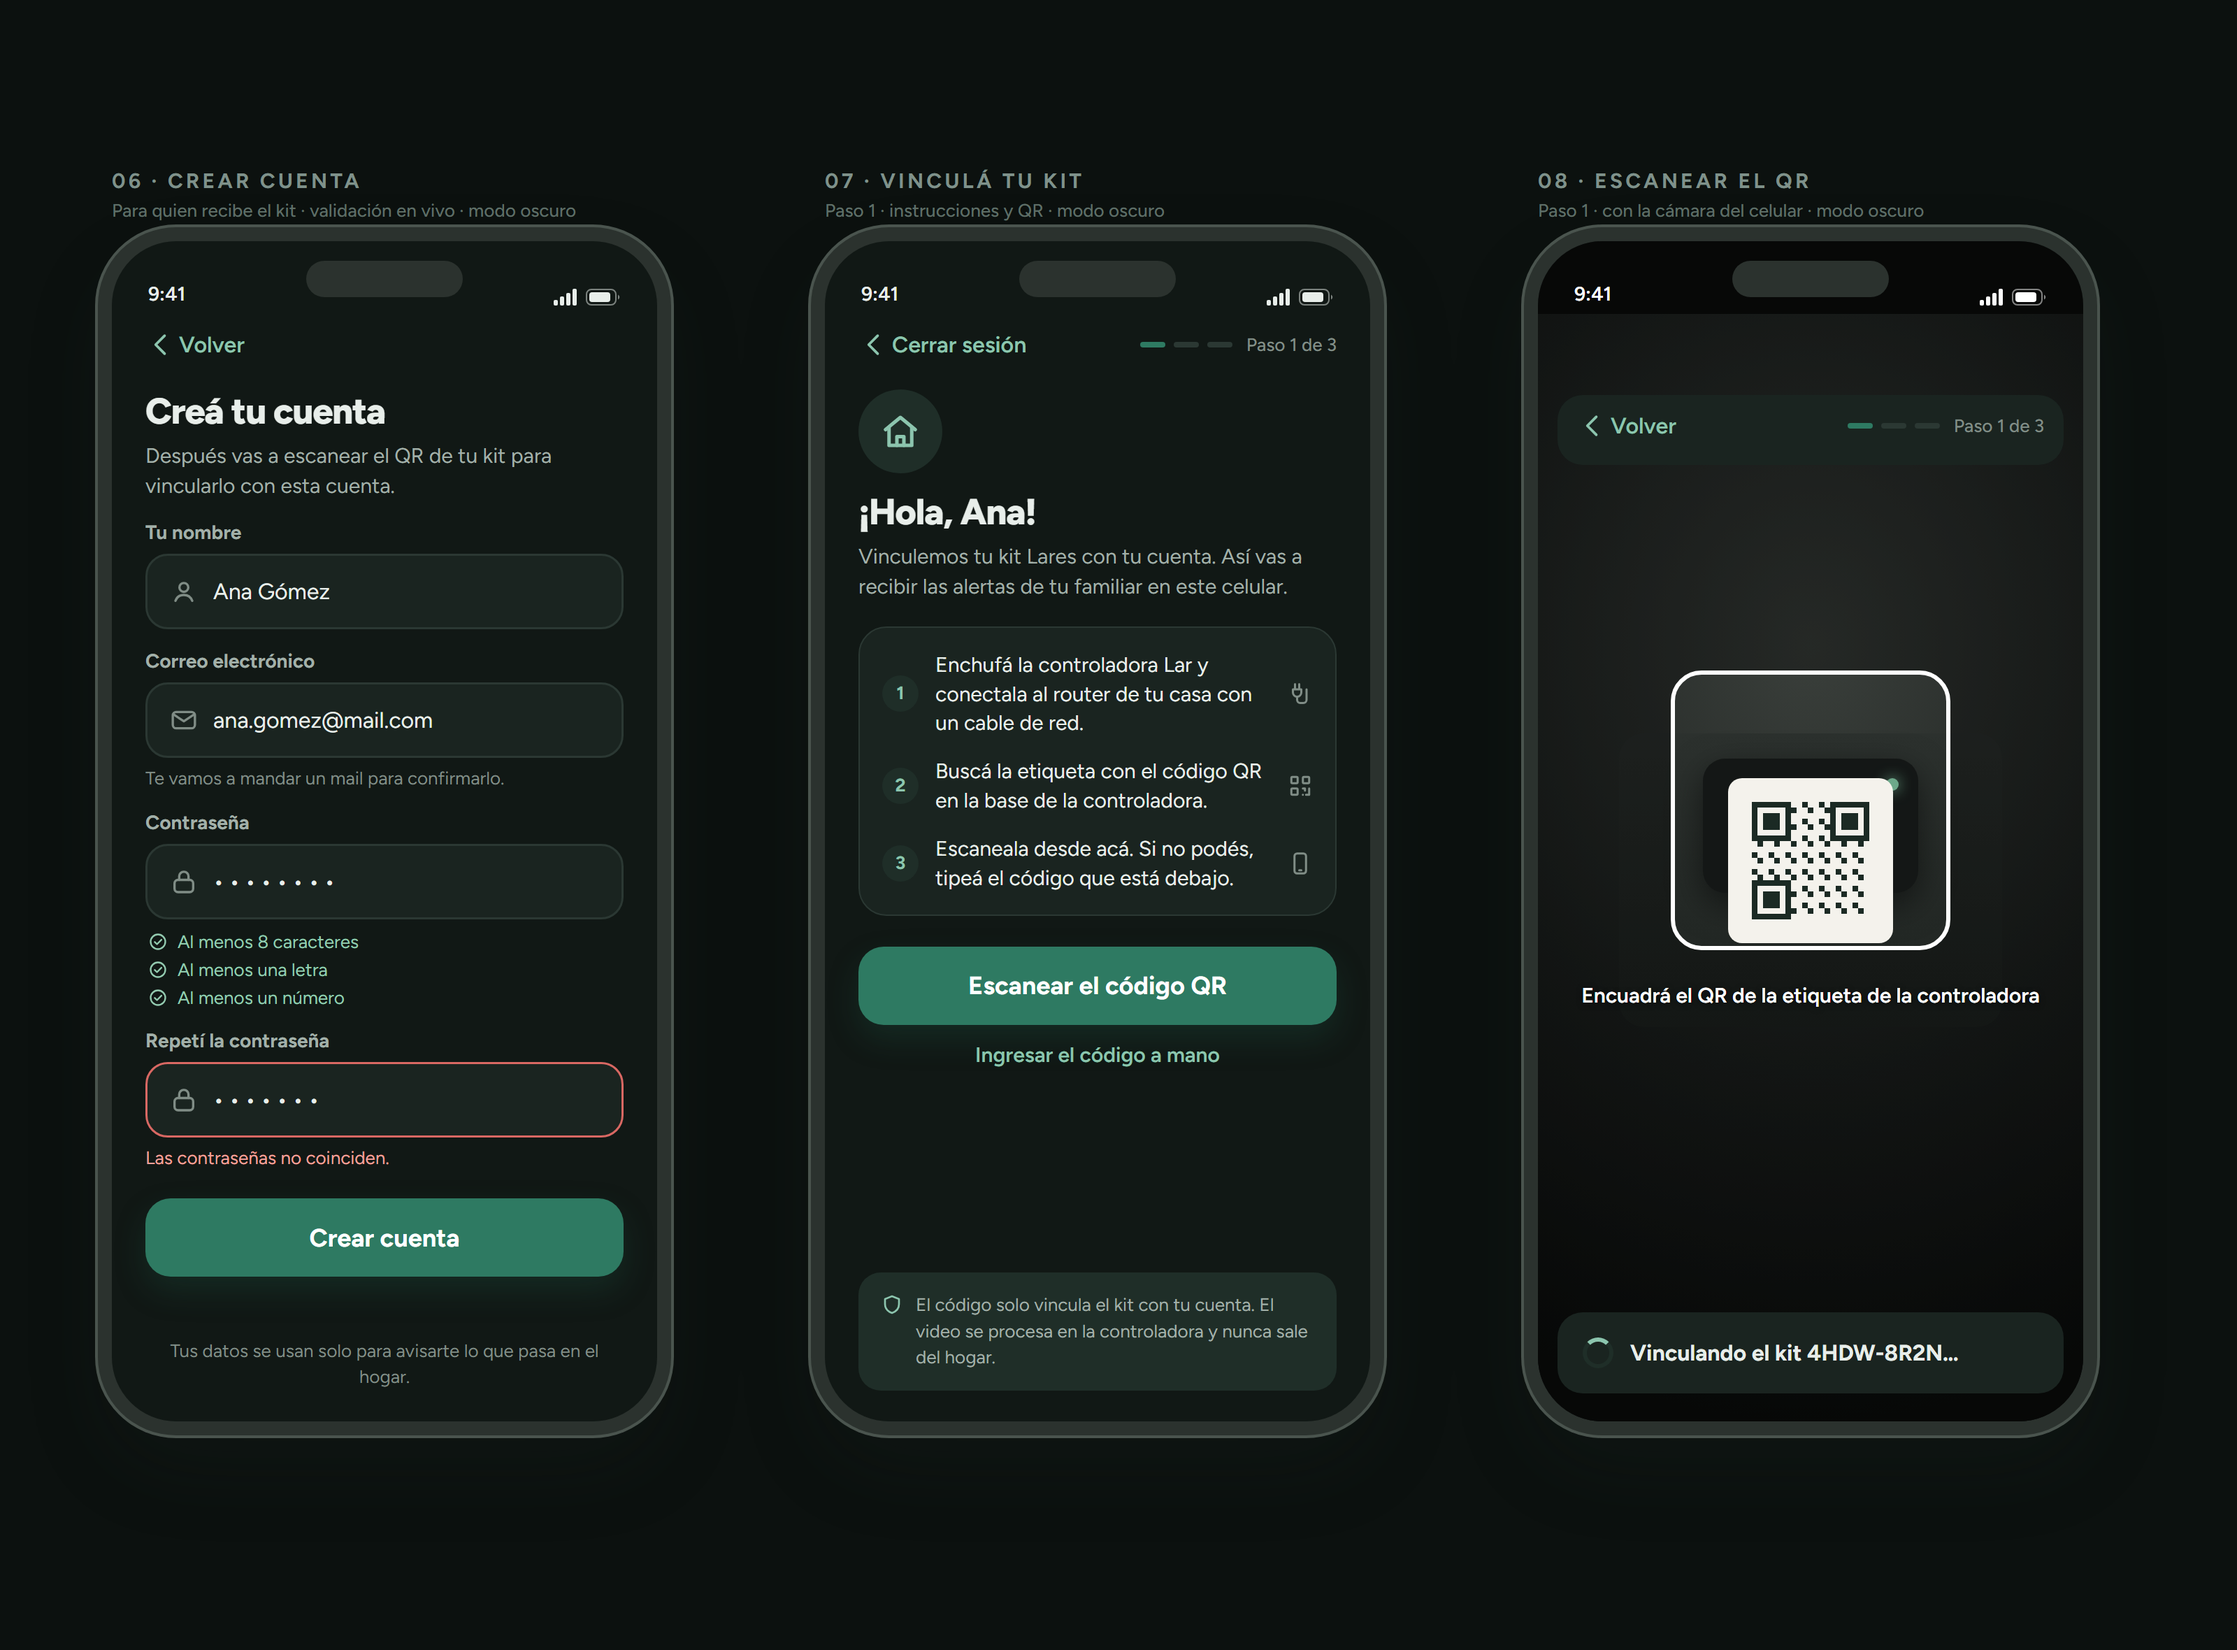
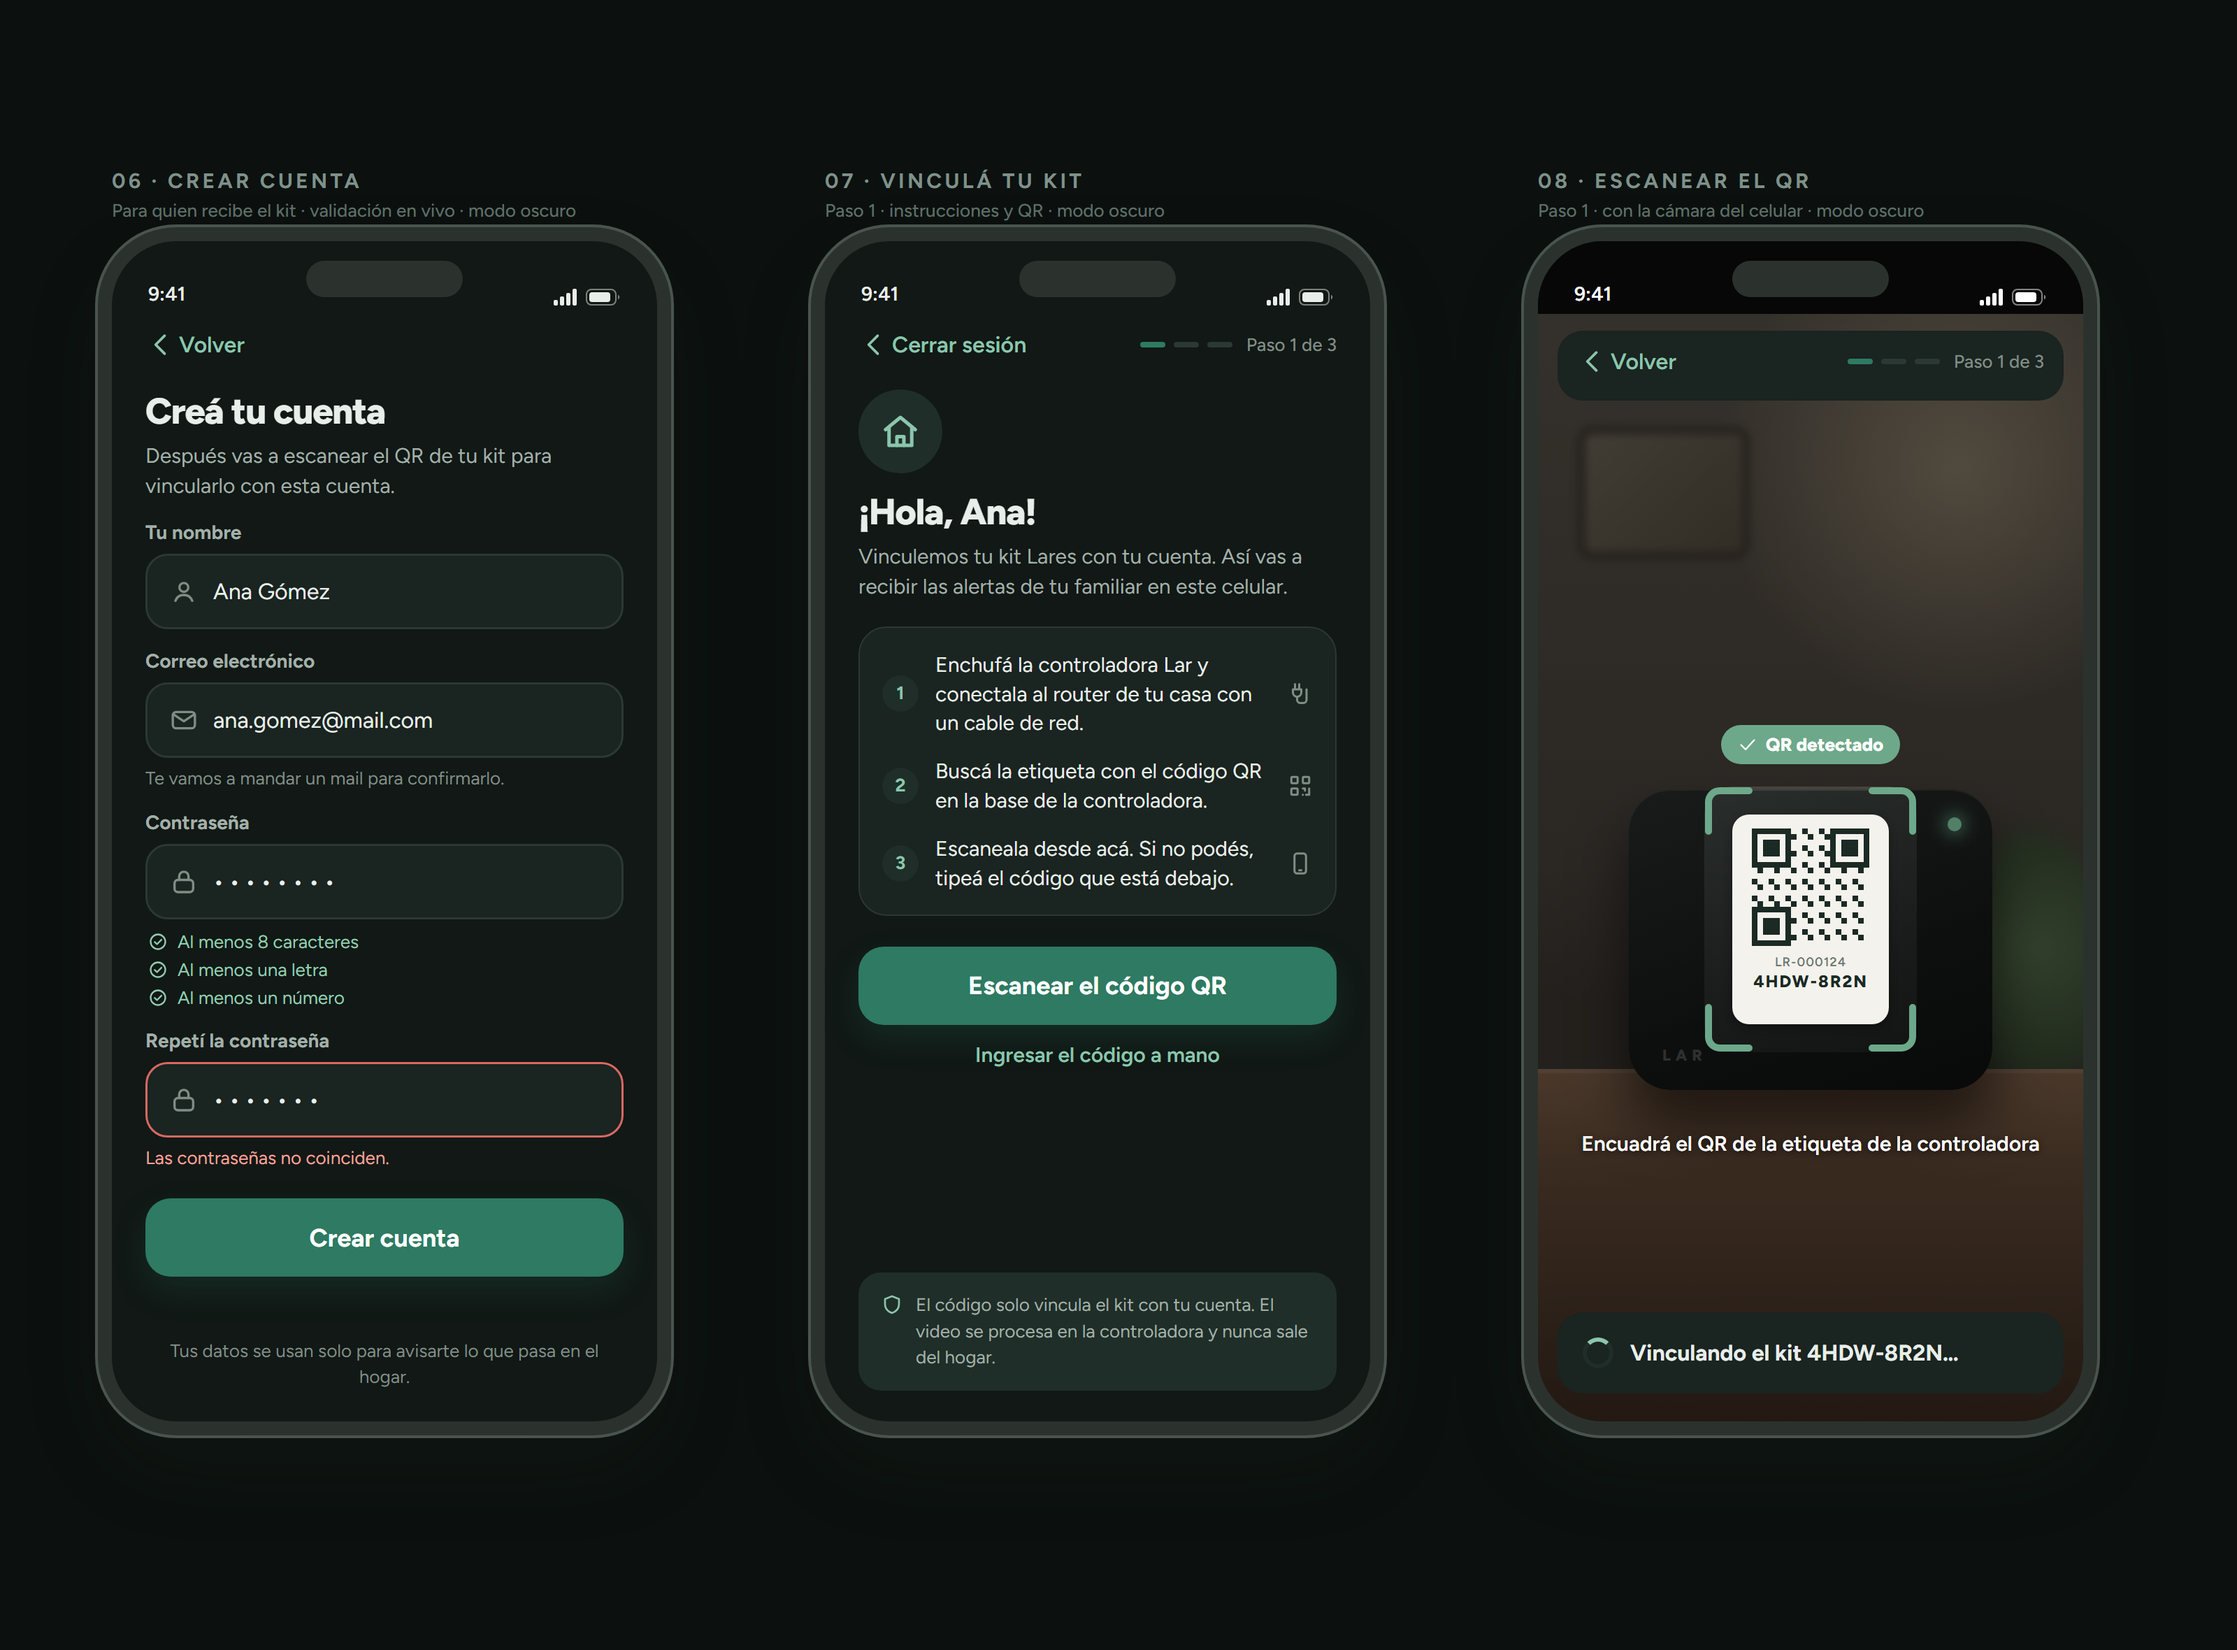
Mejora el mockup 08 (escanear el QR)
La pantalla de escaneo ahora muestra una escena reconocible: la
controladora Lar sobre un mueble, con la etiqueta del QR, el número de
serie y el código; el recuadro del escáner con esquinas verdes y el aviso
"QR detectado". Regeneradas las imágenes claras y oscuras.

Changed region(s): [[0.6875, 0.1856, 0.9375, 0.8661]]

diff --git a/docs/mockups/lares-mockup.css b/docs/mockups/lares-mockup.css
@@ -141,15 +141,26 @@ h1{font-size:26px;font-weight:800;letter-spacing:-.02em}
 /* Escáner: se dibuja sobre la imagen de la cámara, igual en los dos modos */
 .phone.camara{background:#0b0d0c}
 .phone.camara .sb{color:#fff;position:relative;z-index:2}
-.cam{position:absolute;inset:0;background:radial-gradient(120% 70% at 50% 30%,#3a3f3b 0%,#1d211f 55%,#0b0d0c 100%)}
-.cam .mueble{position:absolute;left:58px;right:58px;top:300px;height:210px;border-radius:18px;background:linear-gradient(#2c312e,#1f2421)}
-.cam .lar{position:absolute;left:118px;top:318px;width:154px;height:96px;border-radius:16px;background:#141716;box-shadow:0 8px 24px rgba(0,0,0,.5)}
-.cam .lar i{position:absolute;right:14px;top:14px;width:9px;height:9px;border-radius:5px;background:#6DA88A;box-shadow:0 0 10px #6DA88A}
-.cam .etq{position:absolute;left:136px;top:332px;width:118px;height:118px;border-radius:10px;background:#F4F2EC;display:grid;place-items:center}
-.marco{position:absolute;left:95px;top:255px;width:200px;height:200px;border-radius:22px;border:3px solid #fff;box-shadow:0 0 0 2000px rgba(0,0,0,.35)}
-.indic{position:absolute;left:30px;right:30px;top:478px;text-align:center;color:#fff;font-size:15px;font-weight:600;text-shadow:0 1px 4px rgba(0,0,0,.6)}
+/* La "foto": pared y mueble de madera desenfocados, la controladora Lar con su etiqueta */
+.cam{position:absolute;inset:0;overflow:hidden;background:linear-gradient(180deg,#5b554c 0%,#4a443d 50%,#3e3832 62%)}
+.cam .luz{position:absolute;right:-90px;top:-70px;width:360px;height:360px;border-radius:50%;background:radial-gradient(circle,rgba(255,226,180,.32),rgba(255,226,180,0) 68%)}
+.cam .cuadro{position:absolute;left:34px;top:86px;width:112px;height:84px;border-radius:5px;background:linear-gradient(135deg,#7a7060,#55503f);box-shadow:0 0 0 6px #3b362f;filter:blur(3px);opacity:.75}
+.cam .planta{position:absolute;right:-24px;top:370px;width:120px;height:210px;border-radius:50%;background:radial-gradient(circle at 50% 40%,#5d7a52,#3a4f34 60%,rgba(58,79,52,0) 72%);filter:blur(7px);opacity:.85}
+.cam .mesa{position:absolute;left:-20px;right:-20px;top:540px;bottom:0;background:linear-gradient(180deg,#80614a 0%,#634a37 30%,#3c2c21 100%);box-shadow:inset 0 3px 0 rgba(255,255,255,.09)}
+.cam .lar{position:absolute;left:65px;top:340px;width:260px;height:215px;border-radius:30px;background:linear-gradient(160deg,#2c302e 0%,#181b1a 60%,#0f1110 100%);box-shadow:0 26px 40px rgba(0,0,0,.55),inset 0 1px 0 rgba(255,255,255,.09)}
+.cam .led{position:absolute;right:22px;top:20px;width:10px;height:10px;border-radius:5px;background:#8EDCB2;box-shadow:0 0 12px 3px rgba(109,168,138,.85)}
+.cam .marca{position:absolute;left:24px;bottom:18px;font-size:11px;font-weight:800;letter-spacing:.32em;color:rgba(255,255,255,.26)}
+.cam .etq{position:absolute;left:74px;top:18px;width:112px;height:150px;border-radius:12px;background:#F4F2EC;display:flex;flex-direction:column;align-items:center;padding-top:10px;color:#1B2A24;box-shadow:0 2px 6px rgba(0,0,0,.35)}
+.cam .etq small{font-size:9px;font-weight:600;letter-spacing:.06em;color:#6B7770;margin-top:6px}
+.cam .etq b{font-size:12px;font-weight:800;letter-spacing:.08em;margin-top:1px}
+/* Escáner encima de la foto: oscurece todo menos el recuadro, esquinas verdes = QR detectado */
+.dim{position:absolute;left:119px;top:338px;width:152px;height:190px;border-radius:20px;box-shadow:0 0 0 2000px rgba(0,0,0,.42)}
+.esquinas{position:absolute;left:119px;top:338px;color:#6DA88A}
+.detectado{position:absolute;left:0;right:0;top:294px;display:flex;justify-content:center}
+.detectado span{display:inline-flex;align-items:center;gap:6px;background:#6DA88A;color:#fff;font-size:13px;font-weight:800;padding:6px 12px;border-radius:14px}
+.indic{position:absolute;left:30px;right:30px;top:584px;text-align:center;color:#fff;font-size:15px;font-weight:600;text-shadow:0 1px 4px rgba(0,0,0,.6)}
 .flot{position:absolute;left:14px;right:14px;background:var(--surf);border-radius:18px}
-.flot.arriba{top:58px;padding:0 14px}
+.flot.arriba{top:12px;padding:0 14px}
 .flot.abajo{bottom:20px;padding:18px;display:flex;align-items:center;gap:12px;font-size:16px;font-weight:700}
 .spin{width:22px;height:22px;border-radius:11px;border:3px solid var(--gr-s);border-top-color:var(--ac)}
 .filas{background:var(--surf);border:1px solid var(--line);border-radius:20px;padding:0 16px}

diff --git a/docs/mockups/pantallas.js b/docs/mockups/pantallas.js
@@ -180,8 +180,13 @@ ${campo('Repetí la contraseña', I.candado, '<span style="letter-spacing:.22em"
     titulo: '08 · Escanear el QR',
     sub: 'Paso 1 · con la cámara del celular',
     camara: true, // pantalla completa de cámara: barra de estado clara sobre fondo negro
-    html: () => `<div class="cam"><div class="mueble"></div><div class="lar"><i></i></div><div class="etq">${QR}</div></div>
-<div class="marco"></div><div class="indic">Encuadrá el QR de la etiqueta de la controladora</div>
+    html: () => `<div class="cam"><div class="luz"></div><div class="cuadro"></div><div class="planta"></div><div class="mesa"></div>
+<div class="lar"><div class="led"></div><div class="etq">${QR}<small>LR-000124</small><b>4HDW-8R2N</b></div><span class="marca">LAR</span></div></div>
+<div class="dim"></div>
+<svg class="esquinas" width="152" height="190" viewBox="0 0 152 190" fill="none" stroke="currentColor" stroke-width="5" stroke-linecap="round">
+<path d="M3 32V11a8 8 0 0 1 8-8h21M120 3h21a8 8 0 0 1 8 8v21M3 158v21a8 8 0 0 0 8 8h21M120 187h21a8 8 0 0 0 8-8v-21"/></svg>
+<div class="detectado"><span>${svg(I.check, 14, 'stroke-width="3"')}QR detectado</span></div>
+<div class="indic">Encuadrá el QR de la etiqueta de la controladora</div>
 <div class="flot arriba">${nav('Volver', 1)}</div>
 <div class="flot abajo"><div class="spin"></div>Vinculando el kit 4HDW-8R2N…</div>`,
   },
